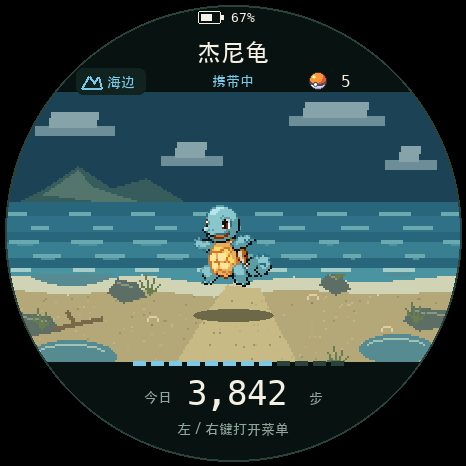
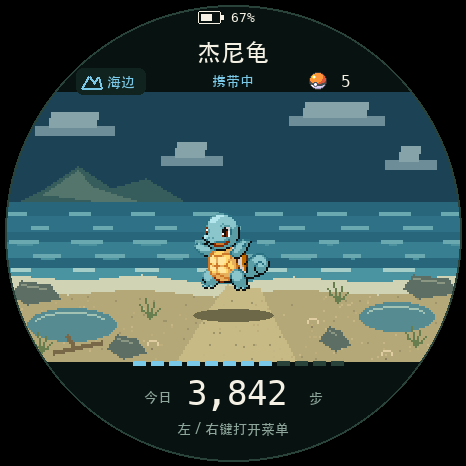
改为首页默认播放纵深动画

diff --git a/docs/design/ui-scene-redesign/index.html b/docs/design/ui-scene-redesign/index.html
@@ -4,8 +4,8 @@
 <header><p class="kicker">POKETRAIL / FIELD INSTRUMENT 01</p><h1>旅途观测仪</h1><p class="lead">全场景与 UI 视觉重设计 · 复古像素 / 圆屏 / 离线步行</p>
 <span class="badge">独立设计提案 · 非 Runtime / 实机截图 · 示例数据</span>
 <div class="stats"><div><b>26 / 26</b><span>正式页面</span></div><div><b>3</b><span>路线场景</span></div><div><b>77</b><span>静态设计帧</span></div><div><b>6</b><span>运动动画</span></div><div><b>466 px</b><span>原生圆屏</span></div></div></header>
-<nav aria-label="设计分组"><a href="exploration.html">探索与菜单</a><a href="capture.html">遭遇与捕捉</a><a href="partners.html">伙伴与图鉴</a><a href="records.html">步行记录</a><a href="system.html">日期与异常</a><a href="walking-animation.html">步行纵深</a><a href="battle-animation.html">战斗动画</a></nav>
+<nav aria-label="设计分组"><a href="exploration.html">探索与菜单</a><a href="capture.html">遭遇与捕捉</a><a href="partners.html">伙伴与图鉴</a><a href="records.html">步行记录</a><a href="system.html">日期与异常</a><a href="walking-animation.html">默认纵深动画</a><a href="battle-animation.html">战斗动画</a></nav>
 <div class="overview"><img src="contacts/overview.png" alt="六张核心设计总览"></div>
-<object data="exploration.html" type="text/html" aria-label="探索与菜单"></object><object data="capture.html" type="text/html" aria-label="遭遇与捕捉"></object><object data="partners.html" type="text/html" aria-label="伙伴与图鉴"></object><object data="records.html" type="text/html" aria-label="步行记录"></object><object data="system.html" type="text/html" aria-label="日期与异常"></object><object data="walking-animation.html" type="text/html" aria-label="步行纵深"></object><object data="battle-animation.html" type="text/html" aria-label="战斗动画"></object>
+<object data="exploration.html" type="text/html" aria-label="探索与菜单"></object><object data="capture.html" type="text/html" aria-label="遭遇与捕捉"></object><object data="partners.html" type="text/html" aria-label="伙伴与图鉴"></object><object data="records.html" type="text/html" aria-label="步行记录"></object><object data="system.html" type="text/html" aria-label="日期与异常"></object><object data="walking-animation.html" type="text/html" aria-label="默认纵深动画"></object><object data="battle-animation.html" type="text/html" aria-label="战斗动画"></object>
 <footer>安全半径 228 · 整数倍像素缩放 · 保留现有输入与玩法<br><a href="../ui-scene-redesign.md">阅读设计文档</a> · <a href="manifest.json">覆盖清单 JSON</a></footer>
 </body></html>

diff --git a/docs/design/ui-scene-redesign/walking-animation.html b/docs/design/ui-scene-redesign/walking-animation.html
@@ -1,5 +1,5 @@
 <!doctype html><html lang="zh-CN"><head><meta charset="utf-8"><meta name="viewport" content="width=device-width,initial-scale=1"><link rel="stylesheet" href="style.css"></head><body>
-<section id="walking-animation"><div class="section-head"><p>步事件示例、地景靠近与停止状态</p><h2>步行纵深</h2></div>
+<section id="walking-animation"><div class="section-head"><p>每 100ms 推进、地景靠近与完整循环</p><h2>默认纵深动画</h2></div>
 <div class="grid"><figure id="walk-forest">
   <a href="animations/walk-forest.gif" aria-label="打开森林 · 林径后退原生图">
     <img src="animations/walk-forest.gif" width="466" height="466" loading="lazy" alt="森林 · 林径后退">

diff --git a/test/support/home_ui/depth_cases.hpp b/test/support/home_ui/depth_cases.hpp
@@ -38,30 +38,43 @@ bool groundScene(Route route, uint64_t visualSteps) {
   return sceneRegion(route, visualSteps, 50, 150, 270, 350) &&
          sceneRegion(route, visualSteps, 316, 416, 270, 350);
 }
+std::vector<uint16_t> groundPixels() {
+  std::vector<uint16_t> pixels;
+  for (int y = 270; y < 350; ++y) for (int x : {50, 316}) {
+    for (int offset = 0; offset < 100; ++offset) pixels.push_back(M5.Display.readPixel(x + offset, y));
+  }
+  return pixels;
+}
+uint64_t defaultSceneSteps(uint32_t origin) { return (host_time_ms - origin) / 100; }
 void sceneDepthMotion() {
   const char* names[] = {"forest", "coast", "cave"};
   for (unsigned route = 0; route < 3; ++route) {
     MemoryStore store; ready(store); HostPlatform platform; Runtime runtime(store, platform); start(runtime);
     if (route) {
-      openMenu(runtime); select(runtime, 1); select(runtime, route); settle(runtime); home(runtime);
+      openMenu(runtime); select(runtime, 1); select(runtime, route); home(runtime);
     }
+    const uint32_t origin = host_time_ms;
     check(farScene(Route(route), 0) && groundScene(Route(route), 0), "selected route starts at its static scene");
     idle(runtime, 700);
-    check(farScene(Route(route), 0) && groundScene(Route(route), 0), "time without steps does not move the scene");
+    uint64_t visualSteps = defaultSceneSteps(origin);
+    check(visualSteps == 7 && farScene(Route(route), visualSteps) && groundScene(Route(route), visualSteps),
+          "home animates by default without any walking input");
     walk(runtime, platform, 4);
-    uint64_t visualSteps = runtime.engine().view().totalSteps;
-    check(visualSteps > 0, "real IMU input advances visual scene steps");
+    visualSteps = defaultSceneSteps(origin);
+    check(runtime.engine().view().totalSteps > 0, "walking still updates the Engine step account");
     check(farScene(Route(route), visualSteps) && groundScene(Route(route), visualSteps),
-          "ground moves down at both layer rates while the far scene stays fixed");
+          "walking does not accelerate the default scene timeline");
     char name[48]; std::snprintf(name, sizeof(name), "home-depth-%s-moving", names[route]); screenshot(runtime, name);
     idle(runtime, 700);
+    visualSteps = defaultSceneSteps(origin);
     check(farScene(Route(route), visualSteps) && groundScene(Route(route), visualSteps),
-          "stopping IMU input freezes the complete scene position");
-    std::snprintf(name, sizeof(name), "home-depth-%s-stopped", names[route]); screenshot(runtime, name);
+          "default motion continues after walking stops");
+    std::snprintf(name, sizeof(name), "home-depth-%s-default", names[route]); screenshot(runtime, name);
+    visualSteps = defaultSceneSteps(origin);
     const unsigned height = data::kSceneHeight - data::kRouteSceneLayers[route].groundTop;
-    walk(runtime, platform, height - visualSteps % height);
-    visualSteps = runtime.engine().view().totalSteps;
-    check(visualSteps % height == 0, "real steps reach the complete ground loop");
+    idle(runtime, (height - visualSteps % height) * 100);
+    visualSteps = defaultSceneSteps(origin);
+    check(visualSteps % height == 0, "default timeline reaches the complete ground loop");
     check(farScene(Route(route), 0) && groundScene(Route(route), 0) &&
           farScene(Route(route), visualSteps) && groundScene(Route(route), visualSteps),
           "complete ground loop restores the exact static pixels");
@@ -70,23 +83,24 @@ void sceneDepthMotion() {
 }
 void sceneDepthNavigationAndSleep() {
   MemoryStore store; ready(store); HostPlatform platform; Runtime runtime(store, platform); start(runtime);
+  const uint32_t forestOrigin = host_time_ms;
   walk(runtime, platform, 3);
-  const uint64_t forestSteps = runtime.engine().view().totalSteps;
-  openMenu(runtime); walk(runtime, platform, 2); select(runtime, 7); settle(runtime); home(runtime);
-  check(groundScene(Route::Forest, forestSteps), "steps consumed in menus do not jump the home scene");
-  openMenu(runtime); select(runtime, 1); select(runtime, 1); settle(runtime); home(runtime);
+  const uint64_t forestSteps = defaultSceneSteps(forestOrigin);
+  openMenu(runtime); walk(runtime, platform, 2); select(runtime, 7); home(runtime);
+  check(groundScene(Route::Forest, forestSteps), "menu time does not advance or jump the home scene");
+  openMenu(runtime); select(runtime, 1); select(runtime, 1); home(runtime);
   check(farScene(Route::Coast, 0) && groundScene(Route::Coast, 0), "route change resets depth to the static coast");
+  const uint32_t coastOrigin = host_time_ms;
   screenshot(runtime, "home-depth-route-reset");
-  const uint64_t beforeCoast = runtime.engine().view().totalSteps;
-  walk(runtime, platform, 2);
-  const uint64_t coastSteps = runtime.engine().view().totalSteps - beforeCoast;
-  check(groundScene(Route::Coast, coastSteps), "new route accumulates depth from zero");
+  idle(runtime, 700);
+  check(groundScene(Route::Coast, defaultSceneSteps(coastOrigin)), "new route starts its default animation from zero");
   idle(runtime, 30020); check(runtime.dimmed(), "depth scene enters power saving");
+  const auto sleepingPixels = groundPixels();
   walk(runtime, platform, 3);
   edge(runtime, false, true); home(runtime);
-  check(groundScene(Route::Coast, coastSteps), "sleep steps do not jump the resumed scene");
+  check(groundPixels() == sleepingPixels, "sleep and wake resume the same default scene position");
   screenshot(runtime, "home-depth-after-wake");
-  openMenu(runtime); select(runtime, 1); select(runtime, 2); settle(runtime); home(runtime);
+  openMenu(runtime); select(runtime, 1); select(runtime, 2); home(runtime);
   check(farScene(Route::Cave, 0) && groundScene(Route::Cave, 0), "wake and later route change preserve reset semantics");
 }
 }

diff --git a/tools/design_preview_walk.py b/tools/design_preview_walk.py
@@ -18,9 +18,6 @@ else:
 FRAME_MS = 100
 FRAME_COUNT = 40
 DURATION_MS = FRAME_MS * FRAME_COUNT
-STEPS_PER_WALKING_FRAME = 2
-WALKING_RANGES = ((0, 8), (16, 32))
-STOPPED_RANGES = ((8, 16), (32, 40))
 ANIMATIONS = [
     dict(id="walk-forest", title="森林 · 林径后退", route="forest", partner=4),
     dict(id="walk-coast", title="海边 · 岸景后退", route="coast", partner=7),
@@ -29,9 +26,7 @@ ANIMATIONS = [
 
 
 def visual_steps_at(frame_index: int) -> int:
-    walked_frames = sum(max(0, min(frame_index, end) - start)
-                        for start, end in WALKING_RANGES if frame_index > start)
-    return walked_frames * STEPS_PER_WALKING_FRAME
+    return frame_index
 
 
 def sprite_frame_at(assets: GeneratedAssets, partner: int, time_ms: int) -> int:
@@ -52,14 +47,14 @@ def render_walk_frame(spec: dict, assets: GeneratedAssets, frame_index: int) -> 
 
 
 def walking_storyboard(out: Path) -> None:
-    labels = ("停止 · 背景冻结", "行走 · 地景靠近", "接缝 · 完整循环")
+    labels = ("首帧 · 初始位置", "默认 · 地景靠近", "接缝 · 完整循环")
     image = Image.new("RGB", (1000, 1080), "#0B1210")
     draw = ImageDraw.Draw(image)
-    draw.text((30, 30), "步行纵深 · 三路线关键帧", font=font(26), fill=TEXT, anchor="lm")
-    draw.text((30, 63), "示例步事件驱动；伙伴与界面固定，远景稳定，地景向屏幕下方靠近", font=font(14), fill=MUTED, anchor="lm")
+    draw.text((30, 30), "默认纵深动画 · 三路线关键帧", font=font(26), fill=TEXT, anchor="lm")
+    draw.text((30, 63), "每 100ms 一个视觉步；伙伴与界面固定，远景稳定，地景向屏幕下方靠近", font=font(14), fill=MUTED, anchor="lm")
     assets = GeneratedAssets()
     for row, spec in enumerate(ANIMATIONS):
-        frames = [render_walk_frame(spec, assets, 8), render_walk_frame(spec, assets, 4)]
+        frames = [render_walk_frame(spec, assets, 0), render_walk_frame(spec, assets, 4)]
         seam = dict(spec, page="Home", species=spec["partner"],
                     visual_steps=ground_height(spec["route"]) - 1)
         frames.append(render_frame(seam, assets))
@@ -84,16 +79,14 @@ def build_walking_animations(assets: GeneratedAssets, out: Path) -> list[dict]:
         relative = f"animations/{spec['id']}.gif"
         indexed[0].save(out / relative, save_all=True, append_images=indexed[1:],
                         duration=[FRAME_MS] * FRAME_COUNT, loop=0, optimize=False, disposal=2)
-        for name, frame_index in (("stationary", 8), ("moving", 4)):
+        for name, frame_index in (("stationary", 0), ("moving", 4)):
             frames[frame_index].save(out / "frames" / f"{spec['id']}-{name}.png", optimize=True)
         seam = dict(spec, page="Home", species=spec["partner"],
                     visual_steps=ground_height(spec["route"]) - 1)
         render_frame(seam, assets).save(out / "frames" / f"{spec['id']}-seam.png", optimize=True)
         manifest.append(dict(spec, group="walking-animation", file=relative,
             durationMs=DURATION_MS, frameMs=FRAME_MS, frameCount=FRAME_COUNT, loop=True,
-            exampleStepIncrement=STEPS_PER_WALKING_FRAME, exampleVisualSteps=visual_steps_at(FRAME_COUNT),
-            walkingFrameRanges=[list(range) for range in WALKING_RANGES],
-            stoppedFrameRanges=[list(range) for range in STOPPED_RANGES],
+            visualSteps=visual_steps_at(FRAME_COUNT),
             middlePixelsPerStep=MIDDLE_PIXELS_PER_STEP, nearPixelsPerStep=NEAR_PIXELS_PER_STEP,
             loopSourceHeight=ground_height(spec["route"]), keyframes=[f"frames/{spec['id']}-{name}.png"
             for name in ("stationary", "moving", "seam")], evidence="host-design-preview"))

diff --git a/test/test_ui_design_previews.py b/test/test_ui_design_previews.py
@@ -113,7 +113,7 @@ class DesignPreviewTests(unittest.TestCase):
                 self.assertTrue(spec["loop"])
                 self.assertGreater(len(unique), 20)
 
-    def test_walking_animation_step_gating_and_fixed_ui(self):
+    def test_walking_animation_default_timeline_and_fixed_ui(self):
         from PIL import ImageDraw
         outside = Image.new("L", (466, 466), 255)
         ImageDraw.Draw(outside).ellipse((5, 5, 461, 461), fill=0)
@@ -140,18 +140,12 @@ class DesignPreviewTests(unittest.TestCase):
                 self.assertEqual(sum(durations), spec["durationMs"])
                 self.assertEqual(spec["frameMs"], WALK_FRAME_MS)
                 self.assertEqual(spec["frameCount"], WALK_FRAME_COUNT)
-                self.assertEqual(spec["exampleVisualSteps"], visual_steps_at(WALK_FRAME_COUNT))
+                self.assertEqual(spec["visualSteps"], visual_steps_at(WALK_FRAME_COUNT))
                 self.assertTrue(spec["loop"])
                 for region in fixed_regions:
                     reference = frames[0].crop(region).tobytes()
                     self.assertTrue(all(frame.crop(region).tobytes() == reference for frame in frames[1:]))
-                for start, end in spec["stoppedFrameRanges"]:
-                    for region in background_regions:
-                        reference = frames[start].crop(region).tobytes()
-                        self.assertTrue(all(frames[index].crop(region).tobytes() == reference
-                                            for index in range(start + 1, end)))
-                    self.assertEqual(visual_steps_at(start), visual_steps_at(end - 1))
-                for index in range(1, 8):
+                for index in range(1, WALK_FRAME_COUNT):
                     self.assertNotEqual(frames[index - 1].crop(background_regions[0]).tobytes(),
                                         frames[index].crop(background_regions[0]).tobytes())
                 for keyframe in spec["keyframes"]:

diff --git a/firmware/apps/20_pokedex/runtime.cpp b/firmware/apps/20_pokedex/runtime.cpp
@@ -116,10 +116,8 @@ void Runtime::loop() {
   Input input = platform_.pollInput();
   metrics_.maxInputGapMs = std::max(metrics_.maxInputGapMs, input.at - lastInput_); lastInput_ = input.at;
   if (input.any() || input.held) lastActivity_ = input.at;
-  uint32_t consumedSteps = 0;
   if (pendingStepCount_ && !(practiceCapture_.stage() == PracticeStage::Battle &&
                              !practiceCapture_.battleView().paused)) {
-    consumedSteps = pendingStepCount_;
     engine_.observeSteps(pendingSteps_, pendingStepCount_, platform_.randomSeed());
     pendingStepCount_ = 0; dirty_ = true;
   }
@@ -146,12 +144,11 @@ void Runtime::loop() {
                          screen_.page == Page::Throw || screen_.page == Page::PracticeThrow;
   if (!dimmed() && safe() && platform_.now() - lastActivity_ >= 30000) sleepDisplay();
   if (!dimmed()) pollBattery(platform_.now());
+  const uint32_t now = platform_.now();
+  const bool sceneActive = !dimmed() && graphicsReady_ && screen_.page == Page::Home;
+  dirty_ |= screens_.advanceScene(engine_.view().route, now, sceneActive);
   if (!dimmed() && graphicsReady_) {
-    const uint32_t now = platform_.now();
-    if (screen_.page == Page::Home) {
-      dirty_ |= screens_.advanceScene(engine_.view().route, consumedSteps);
-      dirty_ |= screens_.advanceHome(engine_.view().partner, now);
-    }
+    if (screen_.page == Page::Home) dirty_ |= screens_.advanceHome(engine_.view().partner, now);
     if (screen_.page == Page::Result && engine_.view().result == Result::Captured)
       dirty_ |= screens_.advanceResult(engine_.view().encounter.species, now);
     if (screen_.page == Page::PracticeResult && practiceCapture_.result() == Result::Captured)

diff --git a/test/support/home_ui/pixel_checks.hpp b/test/support/home_ui/pixel_checks.hpp
@@ -56,13 +56,7 @@ unsigned frameAt(const Sprite& sprite, uint32_t elapsed) {
   }
   check(false, "source durations cover the complete cycle"); return 0;
 }
-void spritePixels(uint16_t id, uint32_t origin, bool forestTransparency = false) {
-  lgfx::LGFX_Sprite scene;
-  scene.setColorDepth(16);
-  check(scene.createSprite(468, 468), "allocate transparent pixel oracle");
-  for (int y = 92; y < 362; ++y) for (int x = 5; x < 461; ++x)
-    scene.drawPixel(x, y, data::kRouteScenes[0].pixels[((y - 92) / 2) * data::kSceneWidth + (x - 5) / 2]);
-  scene.fillEllipse(233, 305, 40, 6, theme::rgb(0x6C, 0x68, 0x48));
+void spritePixels(uint16_t id, uint32_t origin, bool = false) {
   const auto& sprite = data::kSprites[id - 1];
   unsigned scale = displayScale(sprite);
   if (scale == 3 && sprite.height * 3 > 190) scale = 2;
@@ -79,8 +73,7 @@ void spritePixels(uint16_t id, uint32_t origin, bool forestTransparency = false)
       if (pixel != kTransparentKey) { ++ink; opaque &= actual == pixel; }
       else {
         ++holes;
-        transparent &= forestTransparency ? actual == scene.readPixel(left + x * scale + dx, top + y * scale + dy) :
-                                            actual != kTransparentKey;
+        transparent &= actual != kTransparentKey && actual != TFT_BLACK;
       }
     }
   }

diff --git a/firmware/apps/20_pokedex/screens.cpp b/firmware/apps/20_pokedex/screens.cpp
@@ -164,13 +164,22 @@ bool Screens::advance(Playback& playback, uint16_t id, uint32_t now) {
 }
 bool Screens::advanceHome(uint16_t partner, uint32_t now) { return advance(homePlayback_, partner, now); }
 bool Screens::advanceResult(uint16_t species, uint32_t now) { return advance(resultPlayback_, species, now); }
-bool Screens::advanceScene(Route route, uint32_t steps) {
-  if (sceneRoute_ != route) {
+bool Screens::advanceScene(Route route, uint32_t now, bool active) {
+  if (sceneRoute_ != route || !sceneTiming_) {
     sceneRoute_ = route;
     sceneSteps_ = 0;
+    sceneLastMs_ = now;
+    sceneTiming_ = true;
     return true;
   }
-  if (!steps) return false;
+  if (!active) {
+    sceneLastMs_ = now;
+    return false;
+  }
+  const uint32_t elapsed = now - sceneLastMs_;
+  if (elapsed < 100) return false;
+  const uint32_t steps = elapsed / 100;
+  sceneLastMs_ += steps * 100;
   sceneSteps_ += steps;
   return true;
 }

diff --git a/firmware/apps/20_pokedex/screens.hpp b/firmware/apps/20_pokedex/screens.hpp
@@ -49,7 +49,7 @@ class Screens {
   void invalidate();
   bool advanceHome(uint16_t partner, uint32_t now);
   bool advanceResult(uint16_t species, uint32_t now);
-  bool advanceScene(adventure::Route, uint32_t steps);
+  bool advanceScene(adventure::Route, uint32_t now, bool active);
   bool draw(const ScreenState&, const adventure::Engine&,
             const adventure::BattleView& practice, uint32_t now);
  private:
@@ -92,6 +92,8 @@ class Screens {
   Playback homePlayback_, battlePlayback_, enemyBattlePlayback_, resultPlayback_;
   adventure::Route sceneRoute_ = adventure::Route::Forest;
   uint64_t sceneSteps_ = 0;
+  uint32_t sceneLastMs_ = 0;
+  bool sceneTiming_ = false;
   uint16_t decodedId_ = 0, decodedFrame_ = UINT16_MAX, decodedScale_ = 0, decodedSilhouette_ = 0;
 };
 } }

diff --git a/tools/build_ui_design_previews.py b/tools/build_ui_design_previews.py
@@ -143,7 +143,7 @@ def contact_sheet(ident: str, heading: str, specs: list[dict]) -> Path:
 
 def gallery(specs: list[dict], animations: list[dict]) -> str:
     groups = dict(GROUPS)
-    groups["walking-animation"] = ("步行纵深", "步事件示例、地景靠近与停止状态")
+    groups["walking-animation"] = ("默认纵深动画", "每 100ms 推进、地景靠近与完整循环")
     groups["battle-animation"] = ("战斗动画", "前冲、受击、闪避与完美判定")
     for group, (heading, description) in groups.items():
         figures = []

diff --git a/docs/design/ui-scene-redesign-implementation.md b/docs/design/ui-scene-redesign-implementation.md
@@ -9,17 +9,17 @@ rtk proxy mise exec -- python3 tools/build_ui_design_previews.py
 rtk proxy mise exec -- python3 -m unittest test.test_ui_design_previews
 ```
 
-检查覆盖 26 个 `Page`、三条路线、六个捕获关键帧、PNG 尺寸、圆外像素、真实 sprite 像素、联系表和画廊引用。三条战斗 GIF 检查 50ms 帧时长、循环、关键位移与 HP。三条步行 GIF 按 100ms 时间槽检查步事件范围、停止段背景、固定 UI 和循环接缝。场景测试另检查 228×135 静止合成与分层循环的一致性。重复生成应得到相同文件内容。
+检查覆盖 26 个 `Page`、三条路线、六个捕获关键帧、PNG 尺寸、圆外像素、真实 sprite 像素、联系表和画廊引用。三条战斗 GIF 检查 50ms 帧时长、循环、关键位移与 HP。三条步行 GIF 按 100ms 时间槽检查连续默认位移、固定 UI 和循环接缝。场景测试另检查 228×135 静止合成与分层循环的一致性。重复生成应得到相同文件内容。
 
 设计图保留为视觉规格。实际实现使用 `screen_theme.hpp`、`screens_components.cpp` 和 `screens*.cpp`，`viewer_screen.cpp` 同步样式。验证入口和实机边界见[验证说明](../verification.md)。
 
-## 步行纵深实现（2026-10-24）
+## 默认纵深动画实现（2026-10-24）
 
-`tools/design_preview_scenes.py` 提供分层循环来源，`tools/design_preview_walk.py` 生成三路线步行动图和关键帧。`tools/build_scene_backgrounds.py` 另生成固件远景、中层和近层 RGB565 数组及透明键；原普通／暗色合成图继续服务静止画面、缩略图和战斗。
+`tools/design_preview_scenes.py` 提供分层循环来源，`tools/design_preview_walk.py` 生成三路线默认动图和关键帧。`tools/build_scene_backgrounds.py` 另生成固件远景、中层和近层 RGB565 数组及透明键；原普通／暗色合成图继续服务静止画面、缩略图和战斗。
 
-`Screens::advanceScene()` 持有展示层视觉步数。Runtime 只在首页且屏幕唤醒时传入本批已消费步数；路线切换归零，其他页面和熄屏期间不推进。`screens_components.cpp` 仍使用 456 像素行缓冲，按地面带高度合成向下循环的中层和近层，远景与 UI 不动。绘制不修改 Engine 或存档，暗色场景保留原静态路径。
+`Screens::advanceScene()` 持有展示层视觉步数。Runtime 在首页且屏幕唤醒时每 100ms 推进一次，不要求走路输入，走路也不加速；路线切换归零，其他页面和熄屏期间暂停。`screens_components.cpp` 仍使用 456 像素行缓冲，按地面带高度合成向下循环的中层和近层，远景与 UI 不动。绘制不修改 Engine 或存档，暗色场景保留原静态路径。
 
-`test_home_render.cpp` 已通过真实 IMU 合成输入核对三路线移动、停止、完整循环、菜单返回、路线切换和熄屏唤醒，并逐像素检查远景与两层地面。原始截图位于 `.pio/verification/depth-runtime-20261024T121229Z/ui/test_home_render/`，完整十套渲染证据位于 `.pio/verification/depth-final-20261024T122011Z/ui/`。玩法、场景、设计预览和固件构建均通过；实机观感、真实计步、绘制耗时和功耗仍需 C152 验证。
+`test_home_render.cpp` 已核对无输入默认移动、走路不加速、停止走路后继续、完整循环、菜单返回、路线切换和熄屏唤醒，并逐像素检查远景与两层地面。原始截图位于 `.pio/verification/default-scene-20261024T125659Z/ui/test_home_render/`，完整十套渲染位于 `.pio/verification/default-scene-final-20261024T130447Z/ui/`。玩法、场景、设计预览和固件构建均通过；当前版本已烧录并确认首页运行，实机观感、真实计步、绘制耗时和功耗仍需 C152 验证。
 
 ## 固件实现（2026-10-24）
 

diff --git a/docs/verification.md b/docs/verification.md
@@ -32,9 +32,9 @@
 
 随后根据截图复核调整了角色接地：保持地面影子原位，将首页伙伴下移 10 像素，并接平林间小径；妙蛙种子前脚和后脚与同一影子接触，不再通过上移影子对齐。最新首页回归为 134,154 项检查，全部 151 位伙伴的原始像素和圆屏边界通过。最新原像素画廊位于 `.pio/verification/lowered-contact-release-20261024/gallery/index.html`。修正后的固件静态 RAM 不变，Flash 为 5,327,069 字节。
 
-步行纵深已接入首页：真实消费步数驱动两层地面向下循环，远景和 UI 固定；停止、菜单返回、路线切换及熄屏唤醒有独立回归。最新首页为 134,276 项检查，原始截图位于 `.pio/verification/depth-runtime-20261024T121229Z/ui/test_home_render/`；完整十套渲染位于 `.pio/verification/depth-final-20261024T122011Z/ui/`。玩法、场景、设计预览、固件构建和启动局部栈检查通过。静态 RAM 为 78,240 / 327,680 字节（23.9%），Flash 为 5,885,341 / 6,553,600 字节（89.8%），`Engine::begin()` 局部栈帧仍为 48 字节。
+首页已改为默认纵深动画：每 100ms 推进一次，不要求走路输入，走路不加速；菜单和熄屏暂停，返回后从原位置继续。最新首页为 134,080 项检查，覆盖无输入移动、停止走路后继续、完整循环和暂停恢复；完整十套渲染位于 `.pio/verification/default-scene-final-20261024T130447Z/ui/`。玩法、场景、设计预览、固件构建和启动局部栈检查通过。静态 RAM 为 78,248 / 327,680 字节（23.9%），Flash 为 5,885,433 / 6,553,600 字节（89.8%），`Engine::begin()` 局部栈帧仍为 48 字节。
 
-本轮已烧录 `/dev/cu.usbmodem1101`，bootloader、分区表和应用的写入哈希均由 esptool 验证通过。随后串口显示 `ready=1`、首页运行、`rtc=0`、`displayerr=0`，未执行文件系统初始化。截图、单次串口日志和模拟时钟不能证明真实步行下的场景观感、绘制耗时、计步精度或断电安全；静态内存数值不能证明运行时堆峰值或完整任务栈水位。设计图与实际实现差异见[设计文档](design/ui-scene-redesign.md)。
+当前默认动画版本已烧录 `/dev/cu.usbmodem1101`，bootloader、分区表和应用的写入哈希均由 esptool 验证通过。随后串口显示 `ready=1`、首页运行、`rtc=0`、`displayerr=0`，未执行文件系统初始化。截图、单次串口日志和模拟时钟不能证明真实场景观感、绘制耗时、计步精度或断电安全；静态内存数值不能证明运行时堆峰值或完整任务栈水位。设计图与实际实现差异见[设计文档](design/ui-scene-redesign.md)。
 
 ## 当前设备观察
 
